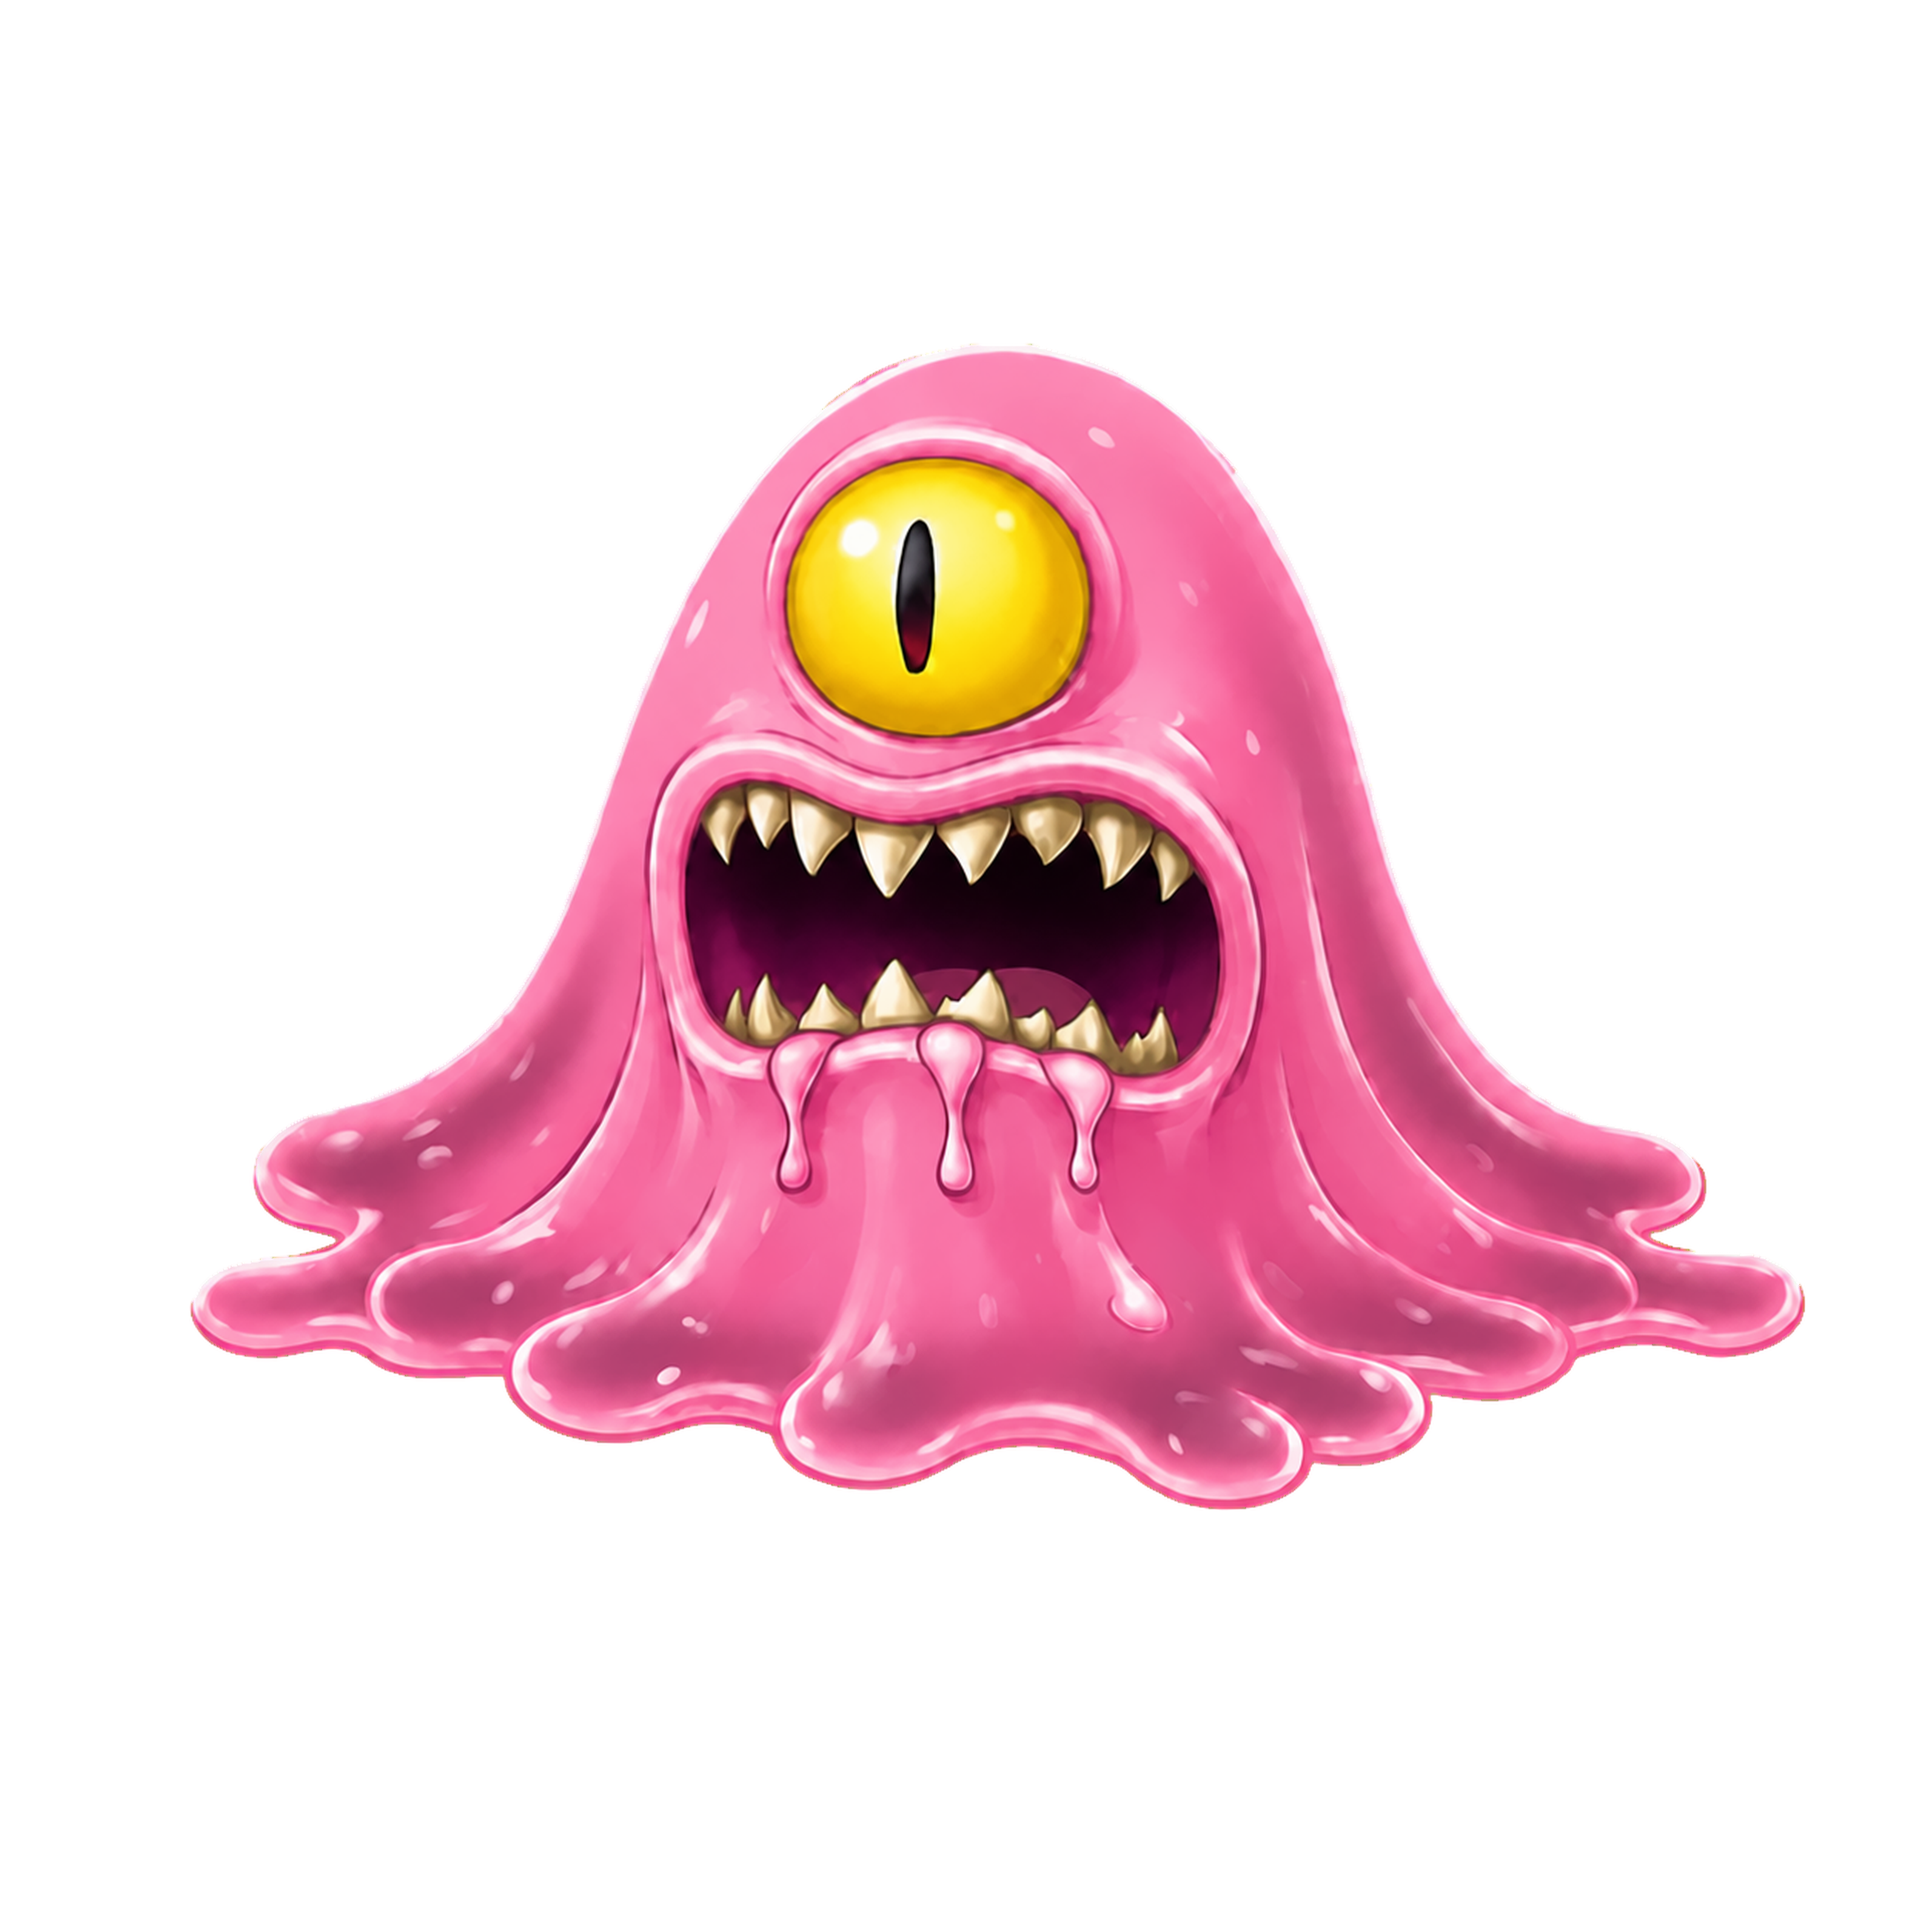
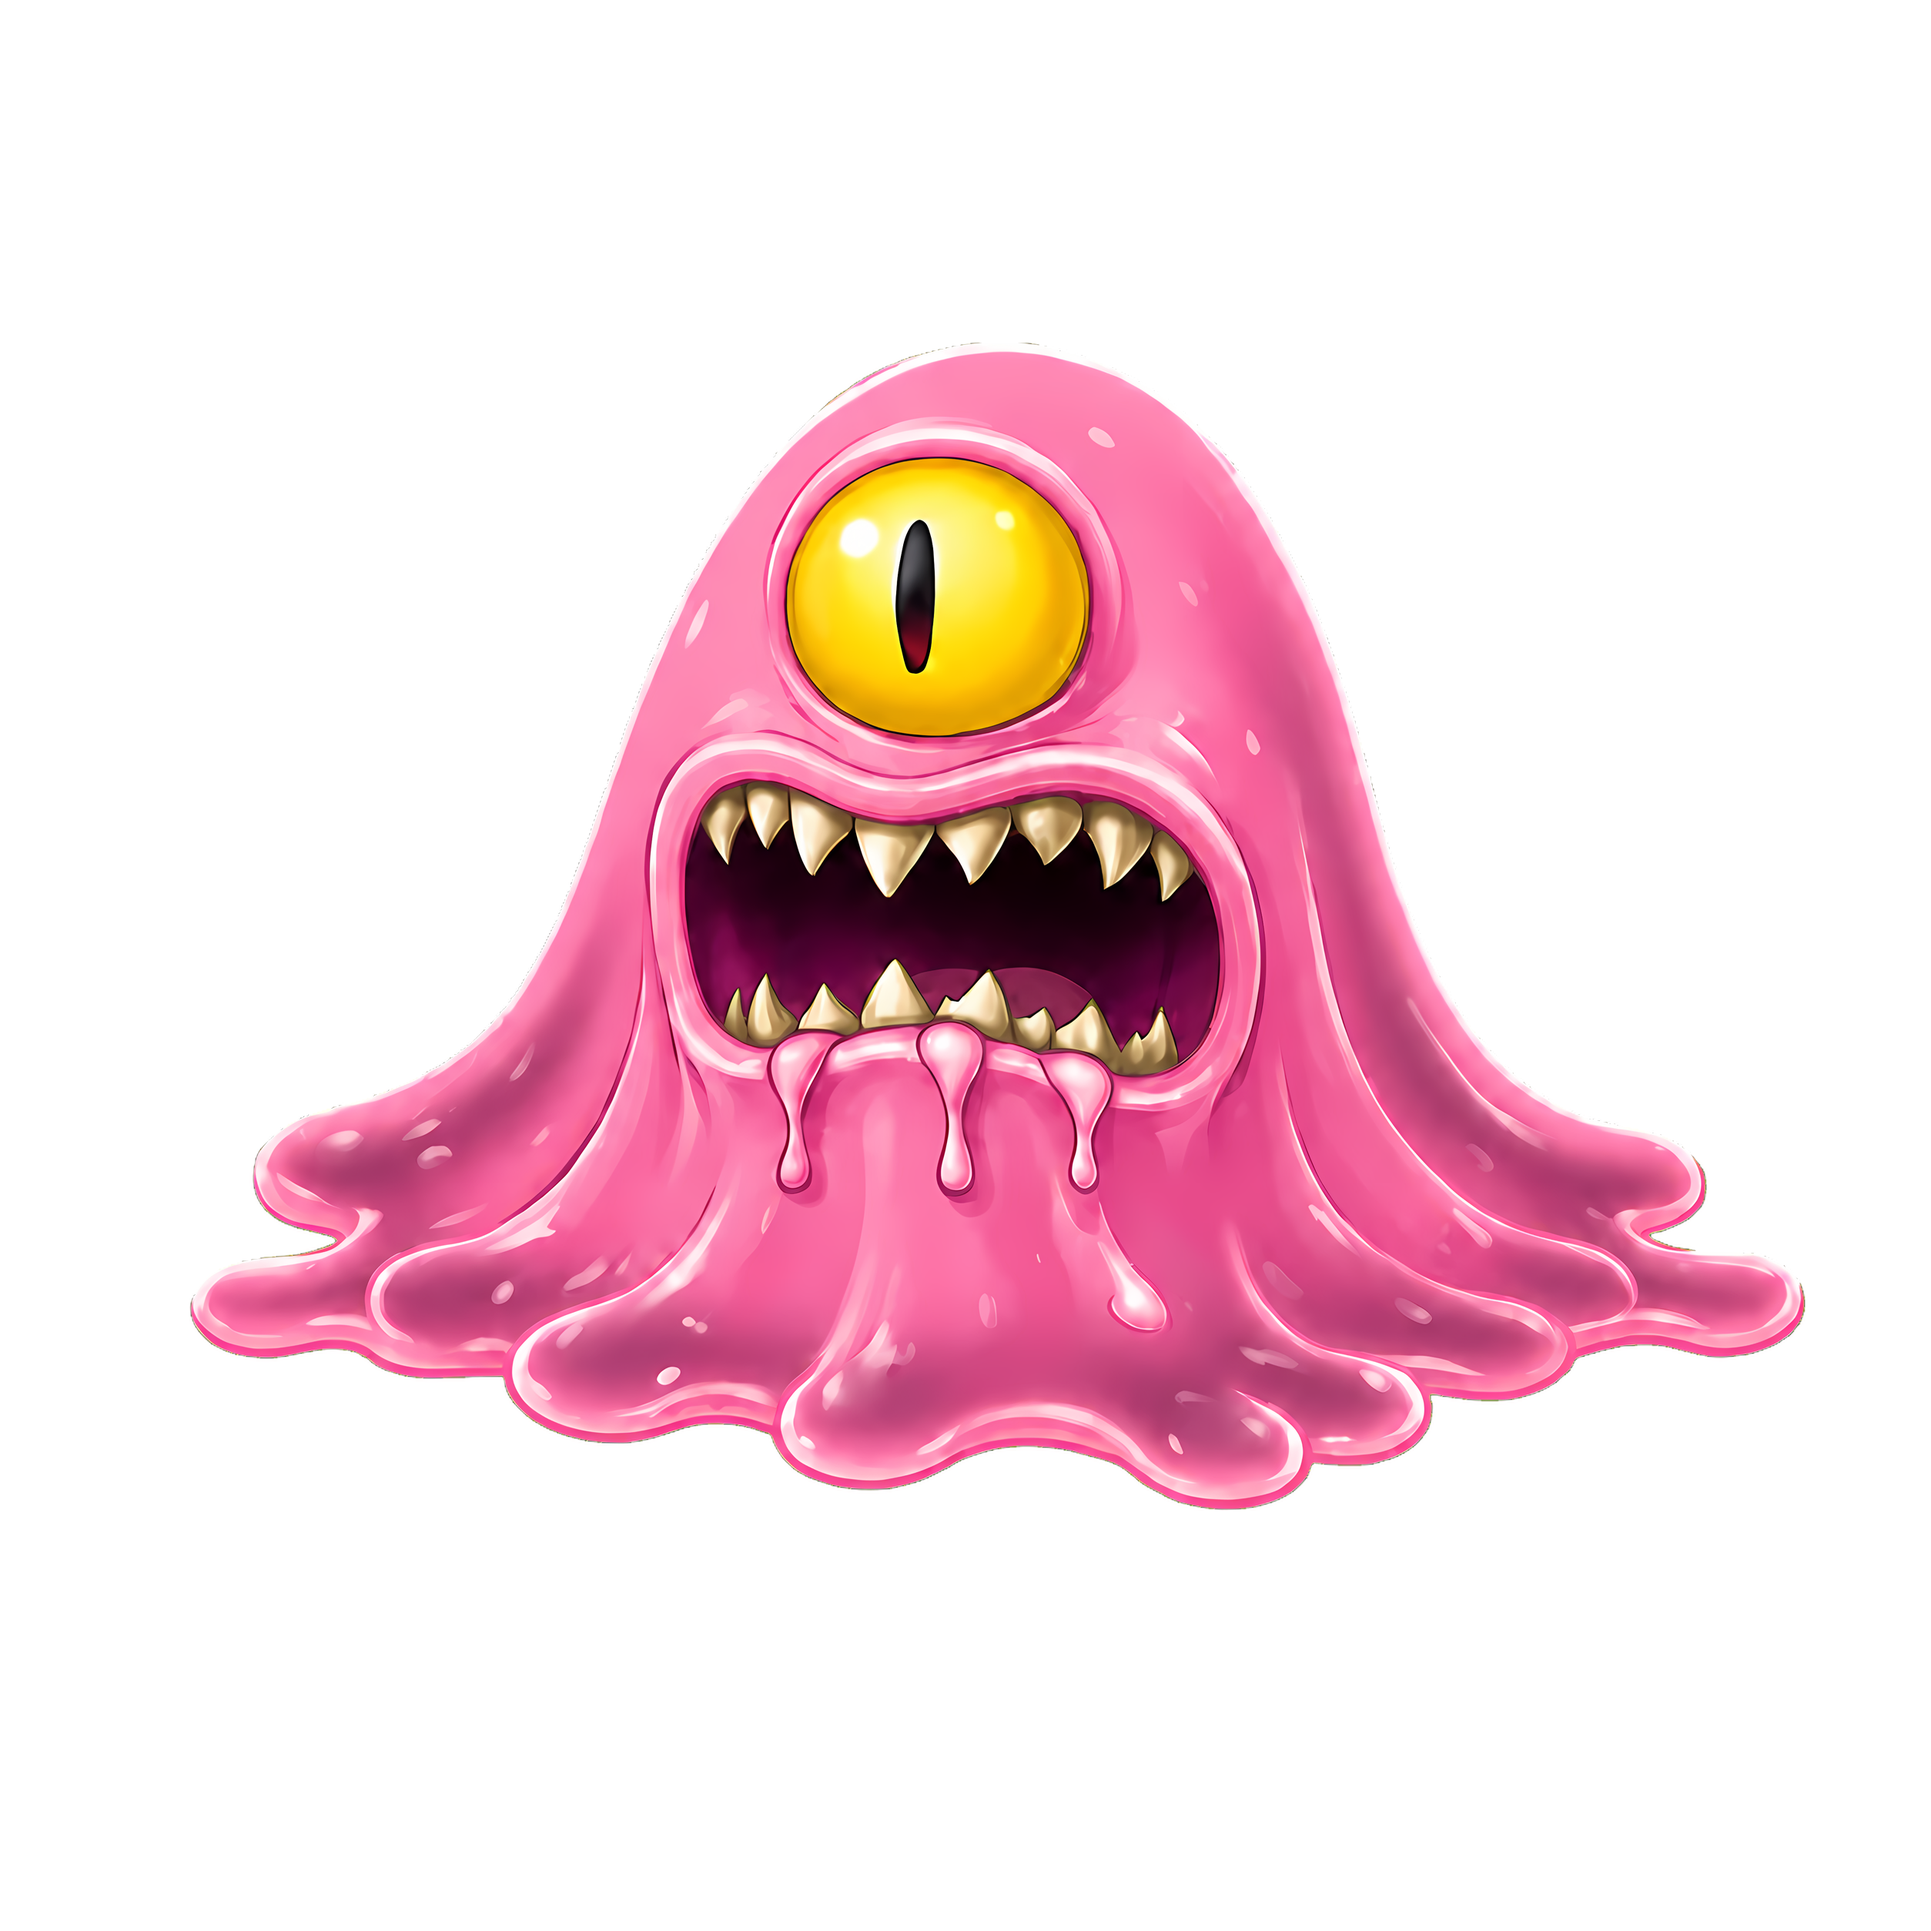
Reconstruct smooth hero Muta details

diff --git a/tests/test_site_smoke.py b/tests/test_site_smoke.py
@@ -137,15 +137,18 @@ def test_hero_muta_uses_a_fidelity_preserving_high_density_asset(
     dimensions while silently changing the silhouette, teeth, highlights, or
     colors. The test therefore downsamples the new lossless asset and composites
     both versions over the site's light and dark background extremes. Their
-    mean channel difference must remain below half of one 8-bit color step,
-    proving this is a conservative restoration rather than new artwork.
+    mean channel difference must remain below a little more than one 8-bit
+    color step, proving this is a conservative reconstruction rather than new
+    artwork.
 
-    The former 2× file was a literal Lanczos resize and enlarged the source's
-    grid, striping, and banding along with Muta. A Gaussian residual provides a
-    deterministic proxy for that unwanted high-frequency texture in opaque
-    painted areas. The restored asset must reduce this residual by at least
-    four percent on both backgrounds while keeping the intentional contours
-    protected by the geometry and similarity assertions above.
+    A literal Lanczos resize enlarged the source's uneven eye contour and the
+    striping in its glossy highlights. The reconstructed 2× asset must differ
+    measurably from that naive interpolation before it is downsampled, ensuring
+    a future replacement cannot silently restore the artifact-bearing version.
+    Conversely, the very small downsampled difference above protects Muta's
+    actual design. The alpha channel is also checked for isolated translucent
+    pixels outside the antialiased silhouette: reconstructed colors beneath
+    such pixels would otherwise appear as horizontal streaks on some renderers.
 
     Finally, a 2× browser must select the high-density file through ``srcset``
     while retaining the original 1254 px intrinsic CSS size, the existing
@@ -169,13 +172,26 @@ def test_hero_muta_uses_a_fidelity_preserving_high_density_asset(
             coordinate * 2
             for coordinate in original.getchannel("A").getbbox()
         )
+        upscaled_alpha = upscaled.getchannel("A")
+        opaque_alpha_core = upscaled_alpha.point(
+            lambda value: 255 if value >= 64 else 0,
+        )
+        valid_antialias_neighborhood = opaque_alpha_core.filter(
+            ImageFilter.MaxFilter(13),
+        )
+        isolated_alpha = ImageChops.multiply(
+            upscaled_alpha,
+            ImageChops.invert(valid_antialias_neighborhood),
+        )
+        assert isolated_alpha.getbbox() is None
 
         normalized = upscaled.resize(
             original.size,
             Image.Resampling.LANCZOS,
         )
-        opaque_mask = original.getchannel("A").point(
-            lambda value: 255 if value > 240 else 0,
+        naive_upscale = original.resize(
+            upscaled.size,
+            Image.Resampling.LANCZOS,
         )
         for background_color in (
             (9, 6, 8, 255),
@@ -198,30 +214,28 @@ def test_hero_muta_uses_a_fidelity_preserving_high_density_asset(
                 original_composite,
                 normalized_composite,
             )
-            assert max(ImageStat.Stat(difference).mean) < 0.5
+            assert max(ImageStat.Stat(difference).mean) < 1.1
 
-            def high_frequency_score(image: Image.Image) -> float:
-                low_frequency = image.filter(
-                    ImageFilter.GaussianBlur(1.25),
-                )
-                residual = ImageChops.difference(
-                    image,
-                    low_frequency,
-                )
-                return sum(
-                    ImageStat.Stat(
-                        residual,
-                        mask=opaque_mask,
-                    ).mean
-                ) / 3
-
-            original_residual = high_frequency_score(
-                original_composite,
+            high_density_background = Image.new(
+                "RGBA",
+                upscaled.size,
+                background_color,
             )
-            restored_residual = high_frequency_score(
-                normalized_composite,
+            upscaled_composite = Image.alpha_composite(
+                high_density_background,
+                upscaled,
+            ).convert("RGB")
+            naive_composite = Image.alpha_composite(
+                high_density_background,
+                naive_upscale,
+            ).convert("RGB")
+            reconstruction_difference = ImageChops.difference(
+                upscaled_composite,
+                naive_composite,
             )
-            assert restored_residual <= original_residual * 0.96
+            assert min(
+                ImageStat.Stat(reconstruction_difference).mean
+            ) > 0.8
 
     page = driver(
         stored_theme="dark",
